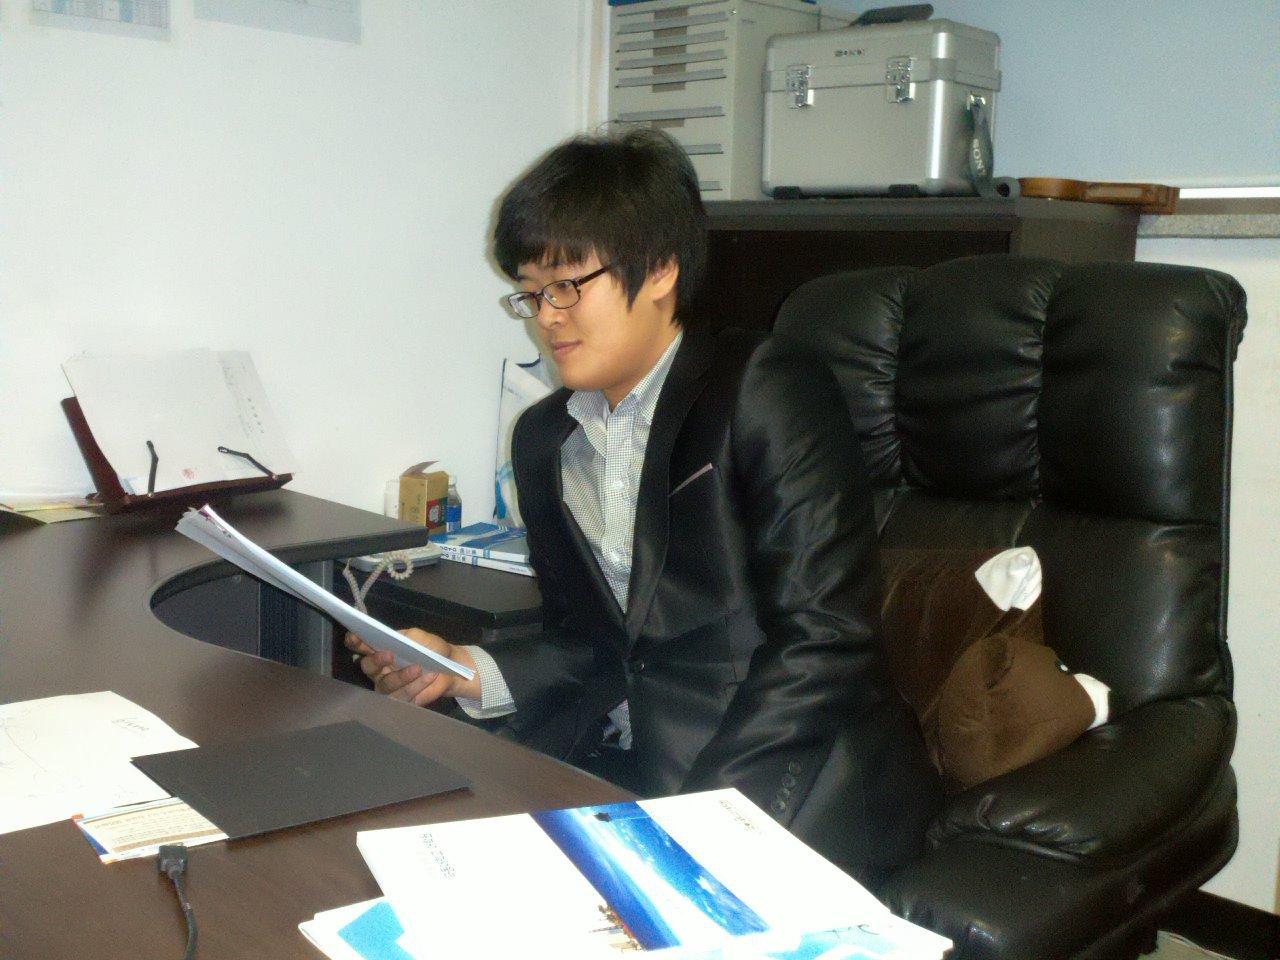
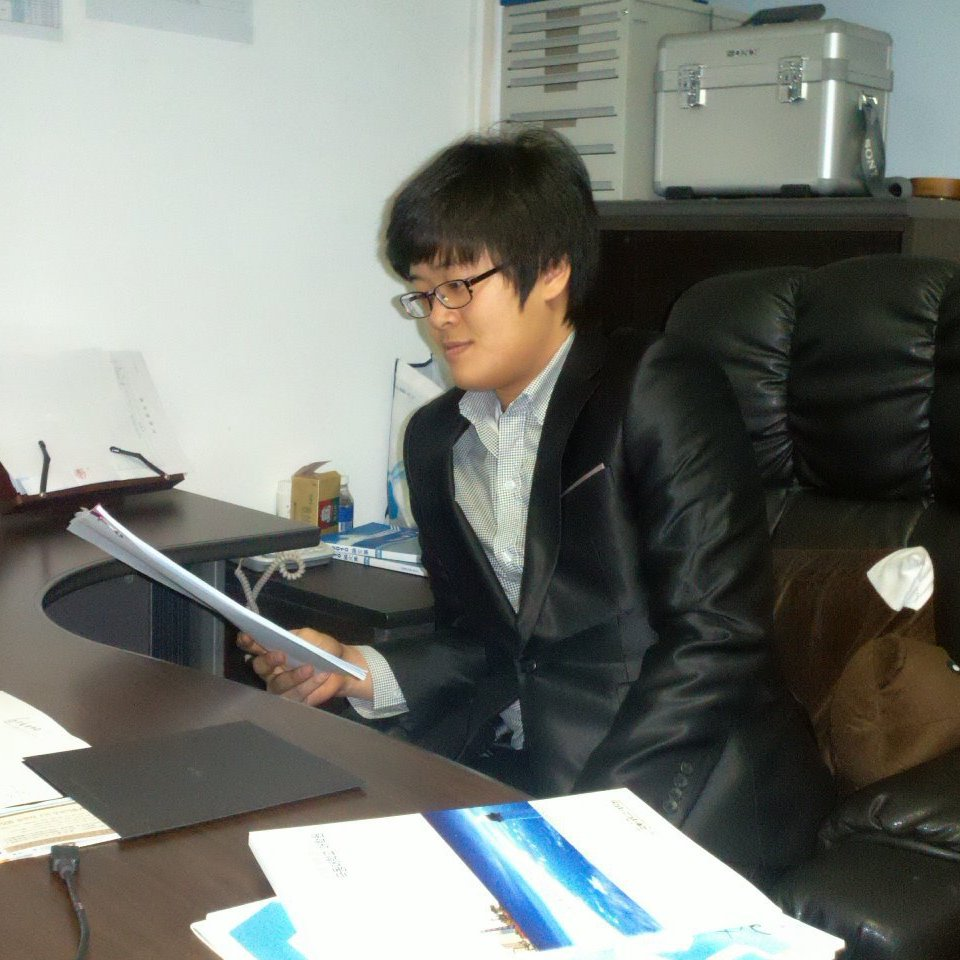
Change profile image and add 3 postings

diff --git a/_posts/2022-04-21-hand-pose-estimation-1.md b/_posts/2022-04-21-hand-pose-estimation-1.md
@@ -1,0 +1,122 @@
+---
+title: Hand Gesture/Pose Estimation - 1 (Image Processing)
+tags: ['ml', 'vision']
+author: "Dongseok Yang"
+---
+
+## 0. 시작하기.
+
+- 해당 포스팅의 목적은 “팜 글러브: 시계형 적외선 카메라 기반 손 HCI 하드웨어 및 소프트웨어 제작” 입니다.
+- 이번 포스팅은 3부분으로 구성되어 있습니다.
+- 첫번째 포스팅
+    - **Hand Gesture/Pose Estimation - 1 (Image Processing)**
+    - HW 구성, 순수 영상처리 기법을 활용한 손 자세 추정 내용으로 구성되어 있습니다.
+- 두번째 포스팅
+    - ****Hand Gesture/Pose Estimation - 2 (Deep Learning)****
+    - 손 자세 추정을 위해 딥러닝 접근법을 설명합니다. 또한 모델 경량화를 위한 내용이 포함되어 있습니다.
+- 세번째 포스팅
+    - ****Hand Gesture/Pose Estimation - 3 (Gesture Recognition)****
+    - 해당 포스팅은 Thumb-to Finger Tap이라는 제스처를 인식하기 위한 기술을 설명합니다.
+
+
+## 1. Intro
+
+- 해당 내용은 손 영상을 기반한 인터페이스 기술에 대한 내용입니다.
+- HW 구성과 영상처리 기법을 활용하여 손가락의 운동학적 특징을 추출하여 인터페이스의 명령 매체로 활용하기 위한 기술 내용입니다.
+
+## 2. Overview
+
+- 최근 기술의 발전으로 인간의 작업보다 쉽게 수행 할 수 있도록 컴퓨팅 시스템이 설계되었습니다. 이로 인해 HCI(Human Computer Interface) 즉, 컴퓨터와 인간의 상호작용은 우리 삶의 중요한 부분이 되었습니다.
+- 또한 가까운 미래에 컴퓨팅, 통신 및 디스플레이에 사용할 수 있는 기존 인터페이스 기술 (키보드, 마우스)들에 병목 될 것이며, 가상현실 및 혼합현실 등 변화하는 환경에 자연스럽게 접목될 인터페이스가 필요합니다.
+- 그 중 손은 의사소통을 하는 과정에서 가장 많이 활용되는 신체 입니다. 따라서 손은 HCI 분야에 핵심적인 관심 분야입니다.
+- 본 기사의 목표는 팜 글러브라는 디바이스와 영상처리 기법을 위해 재활 환자들게 디지털 손 재활 훈련을 제공하기 위한 목적을 가지고 있습니다.
+
+![Untitled](Hand%20Gesture%20Pose%20Estimation%20-%201%20(Image%20Processing%207ebbe4007bde4604ab2d2ad097c804a0/Untitled.png)
+
+![Untitled](Hand%20Gesture%20Pose%20Estimation%20-%201%20(Image%20Processing%207ebbe4007bde4604ab2d2ad097c804a0/Untitled%201.png)
+
+## 3. Hardware
+
+- 해당 목적은 인식 알고리즘에 중점을 맞추기었기 때문에 HW의 경우 동향과 제안한 방법에 대해서만 간단히 언급하겠습니다.
+- 이전 연구에서 손을 분석하기 위한 하드웨어 장치로서, [Flex 센서](https://en.wikipedia.org/wiki/Flex_sensor), [IMU 센서](https://towardsdatascience.com/what-is-imu-9565e55b44c) 등을 적용하여 손을 인터페이스로 활용하는 시도를 해왔습니다
+- 그러나, 이러한 센서들은 모든 손가락의 정확한 위치에 부착되어야 하며 착용성에 불편함을 가집니다. 또한 커버형으로 구성되기 때문에 손가락의 촉감을 완전히 잃게 됩니다.
+- 이러한 문제점은 카메라를 사용하면 해결됩니다.
+- 하지만 거치형 카메라는 공간에 제약을 받고, 시계형 타입 카메라 디바이스는 손목의 움직임에 따라 손의 뷰를 얻는데 제한적 입니다.
+
+![Untitled](Hand%20Gesture%20Pose%20Estimation%20-%201%20(Image%20Processing%207ebbe4007bde4604ab2d2ad097c804a0/Untitled%202.png)
+
+- 제안한 손 영상 획득을 위한 HW 구성은 손바닥에 부착하는 카메라로 손 자세 및 동작 분석이 가능한 웨어러블 디바이스 입니다. 또한 블루투스 및 HID 모듈이 내장되어 있어 피시 및 스마트 기기와 인터페이스 연동이 가능합니다.
+- 이러한 구조의 장점은 다음과 같습니다.
+
+---
+
+> **첫번째 팜 글러브는 손목 움직임에 제한을 받지 않습니다.**
+> 
+1. 기존 손목 기반 카메라 디바이스는 손목을 뒤로 할 경우 손 및 손가락의 영상을 잃을 수 있습니다.
+2. 하지만 오른쪽과 같이 팜-글러브는 손바닥에 부착하기 때문에 안정적인 손 영상을 얻을 수 있습니다.
+
+> **두번째 손가락의 일정한 방향성 입니다.**
+> 
+1. 팜-글러브에서 들어오는 손 영상에서 엄지손가락은 오른쪽, 나머지 손가락은 왼쪽으로 방향성을 가집니다. 이러한 장점은 머신러닝 및 영상처리 관점에서 매우 가치있는 특징 추출이 가능합니다.
+
+> **마지막으로 정확한 손 객체 획득, 즉 노이즈 처리가 용이합니다.**
+> 
+1. 외부 배경에 대해서 손 객체를 추출하는 것은 왼쪽 그림과 같이 매우 어려운 과제 입니다.
+2. 하지만 팜 –글러브에서는 일상 생활에 활용되지 않은 940nm 적외선 송수신 카메라를 사용하기 때문에 간단한 전처리만으로도 쉽게 손 객체를 얻을 수 있습니다.
+
+---
+
+![Untitled](Hand%20Gesture%20Pose%20Estimation%20-%201%20(Image%20Processing%207ebbe4007bde4604ab2d2ad097c804a0/Untitled%203.png)
+
+## 4. ****영상처리 - 손의 운동학적 분석 기반 기하학적 특징 추출****
+
+- 본격적인 Hand gesture/pose estimation에 대한 알고리즘을 분석해 보겠습니다. 본 단락에서는 순수한 영상처리 기법만을 활용하여 손의 운동학적 특징을 추출하는 알고리즘에 대해서 소개합니다.
+- 또한 손가락이 폐색되어 보이지 않는 경우 손의 관절 부분인 MCP 라인 추출 기법을 손가락의 인덱스를 정확히 판단하는 기법에 대해서도 소개합니다.
+- 먼저 손 객체 추출에 대해서 말씀 드리겠습니다.
+- 앞서 설명드렸듯이, 팜 글러브에서는 HSV 컬러모델의 Value 값의 이진화 분리만을 가지고도 견고한 손 객체 추출이 가능합니다.
+
+![Untitled](Hand%20Gesture%20Pose%20Estimation%20-%201%20(Image%20Processing%207ebbe4007bde4604ab2d2ad097c804a0/Untitled%204.png)
+
+- 손 객체를 얻으면 손의 상단 경계선을 추출합니다. 방식은 순차적 서칭 방식으로 사용하며 픽셀 값이 0이되지 않는 구간의 모든 가로 점으로 추출합니다.
+- 또한 추출된 점은 이전 점과 비교하여 상승 점인지 하강 점인지 구분되며 상승과 하강이 교차하는 점을 그림의 보라색과 같이 손가락 끝점으로 정의합니다.
+
+![Untitled](Hand%20Gesture%20Pose%20Estimation%20-%201%20(Image%20Processing%207ebbe4007bde4604ab2d2ad097c804a0/Untitled%205.png)
+
+- 하지만 보시는 그림과 같이, 엄지손가락에서 상승 하강 곡선이 생성되지 않아 손가락 끝점이 추출되지 않은 경우가 할 수도 있습니다.
+
+![Untitled](Hand%20Gesture%20Pose%20Estimation%20-%201%20(Image%20Processing%207ebbe4007bde4604ab2d2ad097c804a0/Untitled%206.png)
+
+- 따라서 명확한 손가락 끝점을 찾기 위해 오른쪽 그림의 노란점과 같이 일정한 오프셋을 가지는 4가지 후보군 극점을 추가합니다.
+- 이후 4가지 후보군 극점과 추출된 손가락 끝점을 기준으로 우하-방향성 마스크를 이용하여 손가락 경계선 추적 알고리즘이 적용됩니다
+- 우향-방향성 마스크는 엄지를 제외한 다른 손가락의 외각선을 정확히 추출할수 있습니다.
+- 또한 그림에 보라색 원과 같이 일정한 높이 기준으로 사영되는 점을 사영점이라고 정의합니다.
+- 이로 인해, 추출된 외각선을 기반과 사영점을 활용하여 손가락 움직임의 세부 분석이 가능합니다.
+
+![Untitled](Hand%20Gesture%20Pose%20Estimation%20-%201%20(Image%20Processing%207ebbe4007bde4604ab2d2ad097c804a0/Untitled%207.png)
+
+- 마지막으로 [MCP(**Metacarpophalangeal](https://m.blog.naver.com/PostView.naver?isHttpsRedirect=true&blogId=spm0808&logNo=40207380223))** 라인을 이용한 손가락 인덱싱 방법에 대해서 말씀드리겠습니다.
+- MCP 라인을 구하는 방법은 왼쪽 위의 그림과 같습니다.
+- 빨간색 점은 이전 단계에서의 손의 상단 경계선이며, 손가락 끝을 찾는 방법과 반대로 하강-상승하는 포인트를 기준점으로 MCP라인을 연결합니다.
+- 팜-글러브의 특성상 오른쪽 위 그림과 같이 손가락이 존재하는 범위가 고정되어 있습니다.
+- 실험결과 위와 같이 손가락이 존재하는 범위를 정의하였고 MCP라인 기준으로 손가락이 존재하지 않는다면 손가락 인덱싱 과정에서 제외됩니다.
+- 아래 그림들에서 손가락이 없어진 상황에서도 정확한 인덱싱 결과를 도출하는 것을 보실 수가 있습니다.
+
+![Untitled](Hand%20Gesture%20Pose%20Estimation%20-%201%20(Image%20Processing%207ebbe4007bde4604ab2d2ad097c804a0/Untitled%208.png)
+
+[https://youtu.be/UtzxFnwHw4g](https://youtu.be/UtzxFnwHw4g)
+
+## Reference
+
+- Karam M (2006) A framework for research and design of gesture-based human computer interactions. PhD Thesis, University of Southampton
+- Loclair, C., Gustafson S., and Baudisch P.: ‘PinchWatch: a wearable device for one-handed microinteractions’, *Proc. Mobile HCI*., 2010,
+- Huang, M-C., et al.: ‘Smartglove for upper extremities rehabilitative gaming assessment’, *Proc. 5th Int. Conf. Pervasive Technol. Assistive Environ*., ACM, 2012.
+- Valtin, M., et al.: ‘Modular finger and hand motion capturing system based on inertial and magnetic sensors’, *Curr. Directions Biomed. Eng.*, 2017, 3.1 , pp. 19–23.
+- Mehring, C., et al.: ‘KITTY: Keyboard independent touch typing in VR’, *Virtual Reality Proc. IEEE*., 2004
+- Way, D., : ‘A usability user study concerning free-hand microgesture and wrist-worn sensors’, Wearable and Implantable Body Sensor Networks (BSN), 2014 *11th Int. Conf. IEEE*, 2014
+- Pratorius, M., et al.: ‘Sensing Thumb-to-Finger Taps for Symbolic Input in VR/AR Environments’, *IEEE Comp. Graphics Appl.*, 2015
+
+## 용어 정리
+
+**손의 운동학정 특징 :** 일반적으로 인간 손에 있는 검지 손가락의 평면운동은 3개의 관절운동에 의해 이루어진다. 이러한 운동을 위해서는 기본적으로 역기국학 문제로 접근되어 햔다. 손을 활용한 파지나, 조작행위에 있어서 필수적인 운동 정의를 뜻한다.
+
+ **[MCP(Metacarpophalangeal):](https://m.blog.naver.com/PostView.naver?isHttpsRedirect=true&blogId=spm0808&logNo=40207380223) MCP 관절이라고도 하며 손등과 연결되는 관절을 말한다. 중수지절간관절이라고 한다. 말로표현하기 어렵지만 링크의 그림을 확인하면 쉽게 파악할수 있다.**

diff --git a/_posts/2022-04-21-hand-pose-estimation-2.md b/_posts/2022-04-21-hand-pose-estimation-2.md
@@ -1,0 +1,75 @@
+---
+title: Hand Gesture/Pose Estimation - 1 (Deep Learning)
+tags: ['ml', 'vision']
+author: "Dongseok Yang"
+---
+
+## 1. Intro
+
+- 앞서 소개드린바와 같이 팜 글러브 기반 손 운동학적 정보를 추출하기 위해 기하학적 접근법을 수행하였습니다
+- 하지만 기하학적 접근법은 아래 그림과 같이 한계점을 가지고 있습니다.
+    - 손가락이 안으로 심하게 굽은 경우 정확한 손가락 끝점을 찾기 못하였고 마찬가지로 손의 추적선을 재대로 찾지 못하였습니다.
+    - 또한 손가락의 외각선 추출이 가능하더라도 정확한 손관절값을 유추하기는 쉽지 않았으며, 심한 적외선 왜곡 현상에 잘 대처하지 못하였습니다.
+
+![Untitled](Hand%20Gesture%20Pose%20Estimation%20-%202%20(Deep%20Learning)%2022009cd7619b470f9cc0aa6dc132fc0a/Untitled.png)
+
+- 이러한 문제점들을 해결하기 위해 딥러닝 접근법을 도입하였습니다.
+
+## 2. 손 자세 추정을 위한 딥러닝 네트워크 및 경량화 방법
+
+- 견고하고 가벼운 손 자세 추정을 위해, 팜 글러브를 위한 **손 자세 데이터 생성기**, 올바른 학습 방향을 유도하는 **Patrial Augmentation**, 손 자세 추정을 위한 **딥러닝 네트워크 및 경량화 방법**에 대해 순서대로 말씀드리겠습니다.
+
+![Untitled](Hand%20Gesture%20Pose%20Estimation%20-%202%20(Deep%20Learning)%2022009cd7619b470f9cc0aa6dc132fc0a/Untitled%201.png)
+
+### 2.1 손 자세 데이터 생성기
+
+- 먼저 손 자세 데이터 생성기 입니다. 딥러닝에서 가장 중요한 것은 고른 분포를 가진 많은 데이터 세트 입니다. 따라서 공용 손 데이터 세트(Public Database)도 많이 존재합니다.
+- 하지만 모든 데이터 세트의 유형은 거치형 카메라 기반으로 수집된 데이터 베이스 입니다. 즉, 팜-글러브에 적용하기에 적합하지 않습니다.
+- 공용 손 데이터 세트 중에서 실제 팜 글러브에 사용 가능한 총 데이터의 양은 20퍼센트도 채 되지 않았습니다.
+
+![Untitled](Hand%20Gesture%20Pose%20Estimation%20-%202%20(Deep%20Learning)%2022009cd7619b470f9cc0aa6dc132fc0a/Untitled%202.png)
+
+- 이러한 문제점을 해결하기 위해 저는 손 데이터 생성기를 개발하였습니다.
+- 손 데이터 생성기는 옵션 형식으로 손가락 관절 및 손목의 움직임의 범위를 조절할 수 있으며, 카메라의 위치 및 조도 또한 설정이 가능합니다.
+- 결과값은 2d, 3d, 및 오일러 앵글과 주석에 해당하는 이미지가 출력됩니다. 또한 생성기의 중요 특징중 하나는 물리엔진이 내장되있어 손가락이 물리적으로 가질 수 없는 모델이 생성되면 회피하거나 심한경우 데이터 세트에서 자동으로 제외됩니다.
+
+![Untitled](Hand%20Gesture%20Pose%20Estimation%20-%202%20(Deep%20Learning)%2022009cd7619b470f9cc0aa6dc132fc0a/Untitled%203.png)
+
+### 2.2 부분 변조 기법 (Partial Augmentation)
+
+- 부분 변조 기법은 아래 그림과 같이 파란점이 그라운드 쓰루라고 할때 예측된 점이 빨간색으로서 일정한 값 이상 에러를 가질 경우 해당 부분에 대해서만 변조을 수행합니다.
+- 이러한 방법은 손 자세 추정에 특히 많은 이점을 가집니다.
+- 왜냐하면 손가락은 대부분 비슷하게 생겼으며, 하나의 점의 오류를 보완하기 위해서 다른 점을 예측하는 딥러닝 노드가 같이 수정되면 정확한 예측을 수행했던 점이 다시 일부 재학습되어 에러를 가지게 되는 보틀랙(Bottleneck) 현상이 생기게 되기 때문입니다.
+
+![Untitled](Hand%20Gesture%20Pose%20Estimation%20-%202%20(Deep%20Learning)%2022009cd7619b470f9cc0aa6dc132fc0a/Untitled%204.png)
+
+- 처음부터 Partial Augmentation을 수행하지 않고 학습이 80%이상 진행된 뒤에 적용됩니다.
+- 학습 과정이 80% 이상을 지날 경우, 앞서 설명한 바와 같이 에러를 가지면 Partial Augmentation 수행되고 학습 데이터는 업그레이드 되어 데이터세트는 점점 늘어나게 됩니다 .
+
+![Untitled](Hand%20Gesture%20Pose%20Estimation%20-%202%20(Deep%20Learning)%2022009cd7619b470f9cc0aa6dc132fc0a/Untitled%205.png)
+
+### 2.3 분할 학습(Part based learning) 기반 과 레이어 셔플링(Layer Shuffling)
+
+- 다음은 손 자세 추정을 위한 딥러닝 네트워크 구축입니다.
+- 네트워크는 특징 추출 레이어단을 [hourglass](https://arxiv.org/abs/1603.06937v2)라는 검증된 네트워크를 기본으로 수정하여 사용합니다.
+- 추가적으로 Part based learning과 Layer Shuffling이라는 방법을 제안합니다.
+    - Part baed learning은 추출된 네트워크의 손가락 영상을 분할하여 각각 독립적인 네트워크로 학습하는 방법입니다.
+    - Layer Shuffling이라는 방법은 움직임 방향이 반대인 엄지 손가락을 제외한 나머지 손가락의 레이어들이 랜덤으로 레이어가 셔플 되면서 딥러닝 학습을 수행합니다.
+    - 이러한 방법은 손가락을 구분하여 세분화된 정제(Refine) 과정을 수행할 수 있으며, 비슷한 손가락들의 레이어 셔플을 통해 학습 효과를 증대시키게 됩니다.
+
+![Untitled](Hand%20Gesture%20Pose%20Estimation%20-%202%20(Deep%20Learning)%2022009cd7619b470f9cc0aa6dc132fc0a/Untitled%206.png)
+
+- 모델 경량화는 기존 경량화 기능이 검증된 모듈을 활용 하였습니다.
+- 표현의 편의상 MobileNet V1은 파란색 박스, MobileNet V2는 빨간색 박스,  Shufflenet V1는 초록색 박스로 정의하겠습니다.
+- 네트워크에 적합한 종류와 위치에 경량화 레이어를 적용하기 위해 Grid searching 방식으로 최적화 레이어 매칭을 검증하였습니다.
+- 결과적으로, 네트워크 초기 단계는 세부적인 피처를 효과적으로 뽑아 낼수 있는 Shufflenet V1을 위주로 적용하며 손가락 관절 조인트를 추출하는 단계는 인식 손실이 최소화 되는 MobileNet V1을 사용합니다. 또한 각 손가락의 파셜 레이어는 재정리를 위해 초기 MobileNet V2와 후반 MobileNet V1을 적용하였습니다.
+
+![Untitled](Hand%20Gesture%20Pose%20Estimation%20-%202%20(Deep%20Learning)%2022009cd7619b470f9cc0aa6dc132fc0a/Untitled%207.png)
+
+- 아래 영상은 학습과정과 구동 영상입니다. 본 논문에서 제안한 손 자세 추정 네트워크는 기존 연구된 손 자세 추정 네트워크와 비교하였고, 팜-글러브 기준으로 제안한 네트워크가 속도 및 인식률 측면에서 14.7 픽셀의 오류를 가지며 34 fps(GPU 1080Ti 기준)의 가장 좋은 결과를 도출하였습니다.
+- 또한 본 CPU에서도 동작하는 모델을 개발하였고, 마지막으로 안드로이드 기반 모바일에도 적용하여 인식률은 다소 낮아졌지만 실시간으로 동작하는 21fps라는 결과를 도출하였습니다.
+
+[https://youtu.be/dE9W5nAtmEY](https://youtu.be/dE9W5nAtmEY)
+[https://youtu.be/GdpZgM-zaa8](https://youtu.be/GdpZgM-zaa8)
+![Untitled](Hand%20Gesture%20Pose%20Estimation%20-%202%20(Deep%20Learning)%2022009cd7619b470f9cc0aa6dc132fc0a/Untitled%208.png)
+[https://youtu.be/dE9W5nAtmEY](https://youtu.be/dE9W5nAtmEY)

diff --git a/_posts/2022-04-21-hand-pose-estimation-3.md b/_posts/2022-04-21-hand-pose-estimation-3.md
@@ -1,0 +1,68 @@
+---
+title: Hand Gesture/Pose Estimation - 3 (Gesture Recognition)
+tags: ['ml', 'vision']
+author: "Dongseok Yang"
+---
+
+## 1. Intro
+
+- 핀치 동작 인식(Pinch Gesture Recognition)는 엄지손가락과 다른 손가락이 터치하는 동작입니다(아래 그림 참조)
+- 의학적 관점의 손 재활 치료에서는 Thumb to finger tap이라고 하며, 손 재활 훈련에 매우 중요한 동작입니다.
+- 또한 일반적인 손을 활용한 인터페이스 관점에서 손이 표현할 수 있는 가장 직관적이고 유용한 제스처입니다.
+- 하지만 카메라 기반 핀치 인식은 매우 어려운 과제 입니다.
+    - 왜나하면 핀치 동작은 카메라 뷰 관점에서 손가락 폐색 현상, 즉 손가락이 안보이는 현상이 매우 빈번하게 일어나기 때문입니다.
+- 이러한 문제점을 해결하기 위해 본 장에서는 제안했던 딥러닝 기반 손 자세 추정과 손의 운동학적 특징을 융합하여 핀치 문제를 해결하려 합니다.
+
+![Untitled](Hand%20Gesture%20Pose%20Estimation%20-%203%20(Gesture%20Recognit%2064014ab872494f77b34c0111cf54f952/Untitled.png)
+
+## 2. Pinch Gesture Recognition
+
+- 앞서 소개한 내용 중 중복되는 내용을 제외하고 추가적인 부분만 설명드리겠습니다.
+- 손 객체를 추출하고 제안한 딥러닝 기반 손 자세 추정을 수행하면 결과값으로 관절 포인트 값인 K와 K에 대한 컨피턴스 맵으로서 C값이 추출됩니다.
+- 컨피던스 맵은 추출된 손가락 조인트의 신뢰도를 나타냅니다.
+    - 예를들어 검지 손가락이 폐색되어 있거나 화면에 아예 보이지 않는다면 검지 손가락의 컨피던스 값은 매우 낮은 확률값으로 표현됩니다.
+- 이러한 특성을 이용하여 기하학적 분석에 사용되는 손가락 끝점을 선택적으로 사용할 수 있게 됩니다. 이렇게 선택된 손가락 끝점을 Tn으로 정의합니다. 또한 엄지 손가락의 경계선 추적 라인의 좌우 픽셀값을 체크하여 이용하여 엄지손가락이 다른 손가락과 터치 하였는지 인식합니다.
+- 터치가 인식되면 나머지 선택된 손가락 끝점도 경계선 추적 라인을 추출합니다. 추출된 경계선 추적 라인은 사영되고 되고 겹치지 않는 사영점의 갯수로 핀치 제스처를 결정합니다.
+
+![Untitled](Hand%20Gesture%20Pose%20Estimation%20-%203%20(Gesture%20Recognit%2064014ab872494f77b34c0111cf54f952/Untitled%201.png)
+
+- 각 손가락 관절 포인트
+    
+    ![Untitled](Hand%20Gesture%20Pose%20Estimation%20-%203%20(Gesture%20Recognit%2064014ab872494f77b34c0111cf54f952/Untitled%202.png)
+    
+- 각 손가락 신뢰성 맵
+    
+    ![Untitled](Hand%20Gesture%20Pose%20Estimation%20-%203%20(Gesture%20Recognit%2064014ab872494f77b34c0111cf54f952/Untitled%203.png)
+    
+- 손가락 끝점의 선택적 사용 방법
+    
+    ![Untitled](Hand%20Gesture%20Pose%20Estimation%20-%203%20(Gesture%20Recognit%2064014ab872494f77b34c0111cf54f952/Untitled%204.png)
+    
+- 사영된 점을 통한 핀치 인식
+    
+    ![Untitled](Hand%20Gesture%20Pose%20Estimation%20-%203%20(Gesture%20Recognit%2064014ab872494f77b34c0111cf54f952/Untitled%205.png)
+    
+- 핀치탭의 정확도를 분석하기 위해 사용자 손 대상으로 2천개의 데이터세트를 추출하여 실험하였습니다.
+- 본 포스팅에서는 PPH 방식, TTRPP 방식, HPE 방식을 제안하고 해당 기술에 대한 비교를 진행하였습니다.
+- PPH 방법과  TTRPP 방법, HPE 방법을 비교 한 결과 PPH 방법이 좋을 결과를 도출하였습니다.
+- 또한 인터페이스로 사용하려면 반응속도 중요한 요소 입니다.
+- 반응속도 평가 방법 중 싱글 테스트는 화면에 그림의 4가지 제스처가 제시되고, 제시된 동작을 빠르게 수행하도록 구성되어 있습니다. 사이클 테스트는 4의 제스처가 랜덤으로 제시되면 4개의 제스처를 연속으로 수행하는 것입니다.
+- 일반적으로 인터페이스를 검증하기 위해서는 사람의 인지 속도와 기술의 연산 속도가 1초 이하로 평가되야 합니다.
+- 반응속도 평가 결과 싱글 테스트는 0.74초, 사이클 테스트는 1.87초의 결과로서 인터페이스로 적합한 결과를 도출하였습니다.
+
+![Untitled](Hand%20Gesture%20Pose%20Estimation%20-%203%20(Gesture%20Recognit%2064014ab872494f77b34c0111cf54f952/Untitled%206.png)
+
+[https://youtu.be/_1du9WUu8qg](https://youtu.be/_1du9WUu8qg)
+
+.
+
+## 3. 포스팅을 마치며..
+
+- 본 프로젝트의 목표를 해야겠다고 다짐했을 때가 생각납니다. 제가 시장 조사를 위해 병원에 방문 하였을 때, 손 재활은 환자들에게 매우 필요하지만, 사실상 많은 환자들이 노동 집약적인 의료 상황에서 1시간을 이동하고... 1시간을 기다리고... **30분 치료받고**... 다시 1시간을 걸쳐 돌아가야 하는 모습들이 떠오릅니다.
+- 본 포스팅은 글러브 형식의 HW와 순수 영상처리, 딥러닝 적용 및 인터페이스 평가 등으로 구성되어 있습니다.
+- 포스팅을 보시면서 이런 생각을 가지실수 있습니다.
+- **“당연히 딥러닝이 잘 될텐데? 굳이 순수 영상처리를 검토해볼 필요가 있을가?”**
+- 딥러닝은 최고의 기술이지만, 많은 비용을 지불해야 하는 서비스 입니다.
+- 제게 고객은 환자분들입니다. 환자분들은 비용에 많은 제약을 가질수 있습니다.
+- 제 포스팅을 보시는 분들께서 기술에 대한 저의 미약한 지식을 얻으실수도 있으셨으면 좋겠습니다.
+- 다른 관점에서 기술의 발전도 중요하지만 서비스를 제공하는 입장에서 서비스 대상에 대한 고려를 한번 정도 생각해 보시는 시간을 가지는 것도 좋은 관점이 될 것 같습니다.
